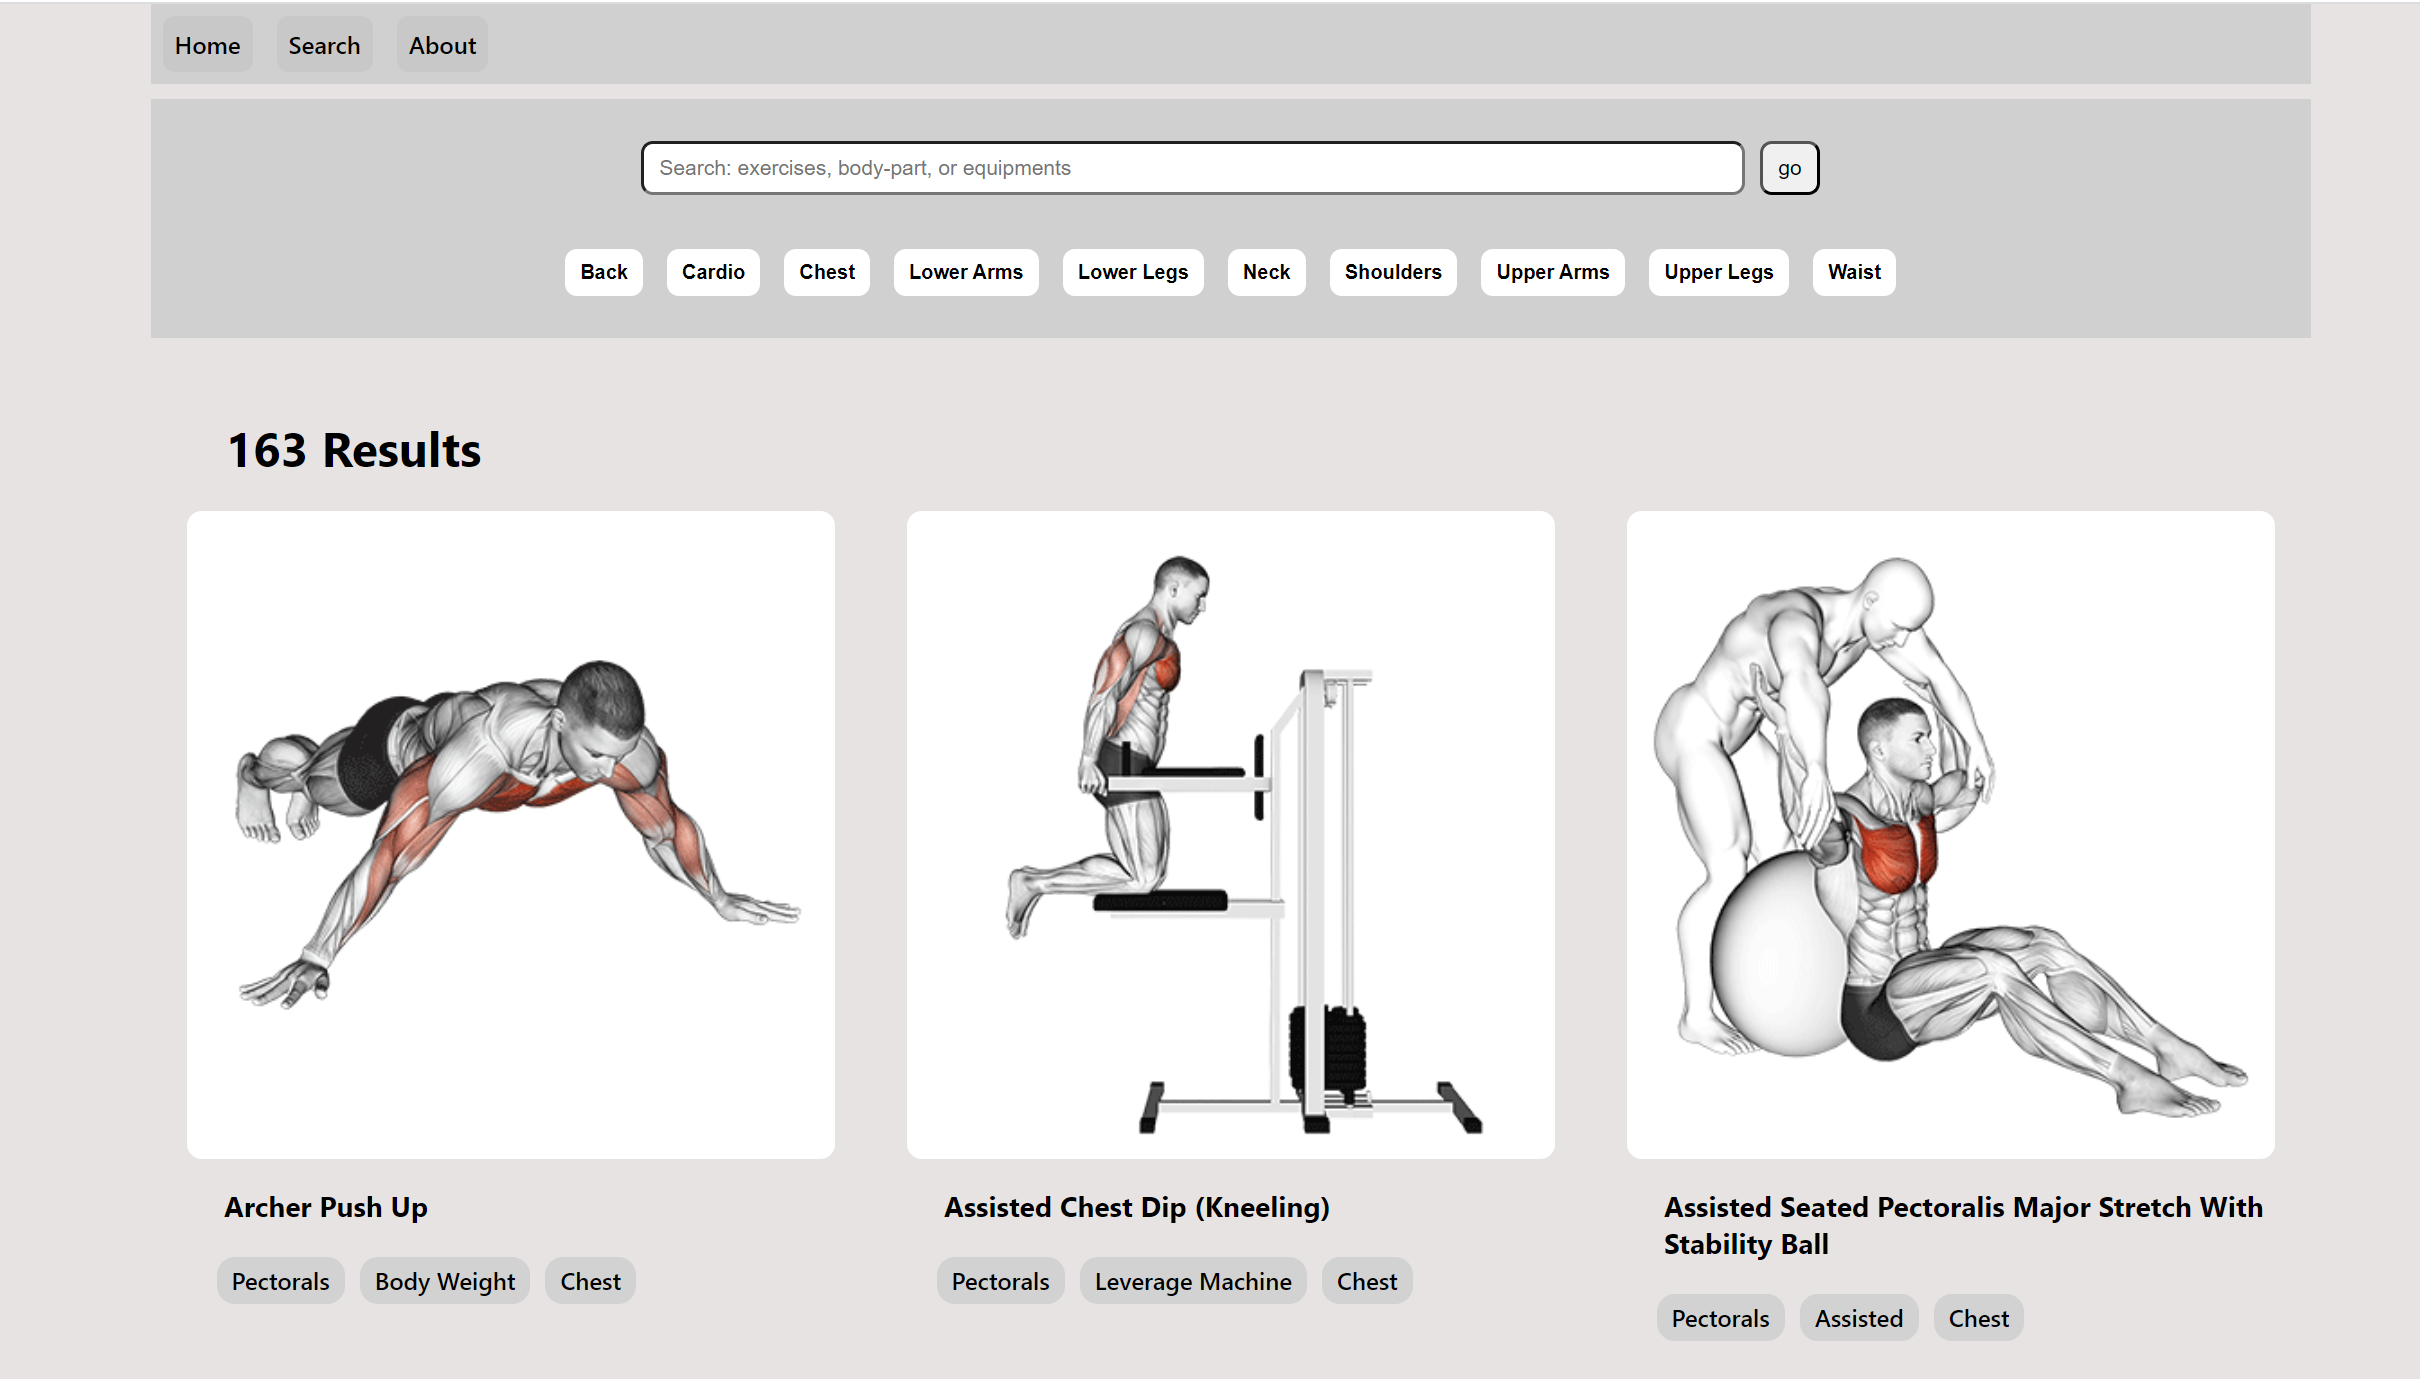
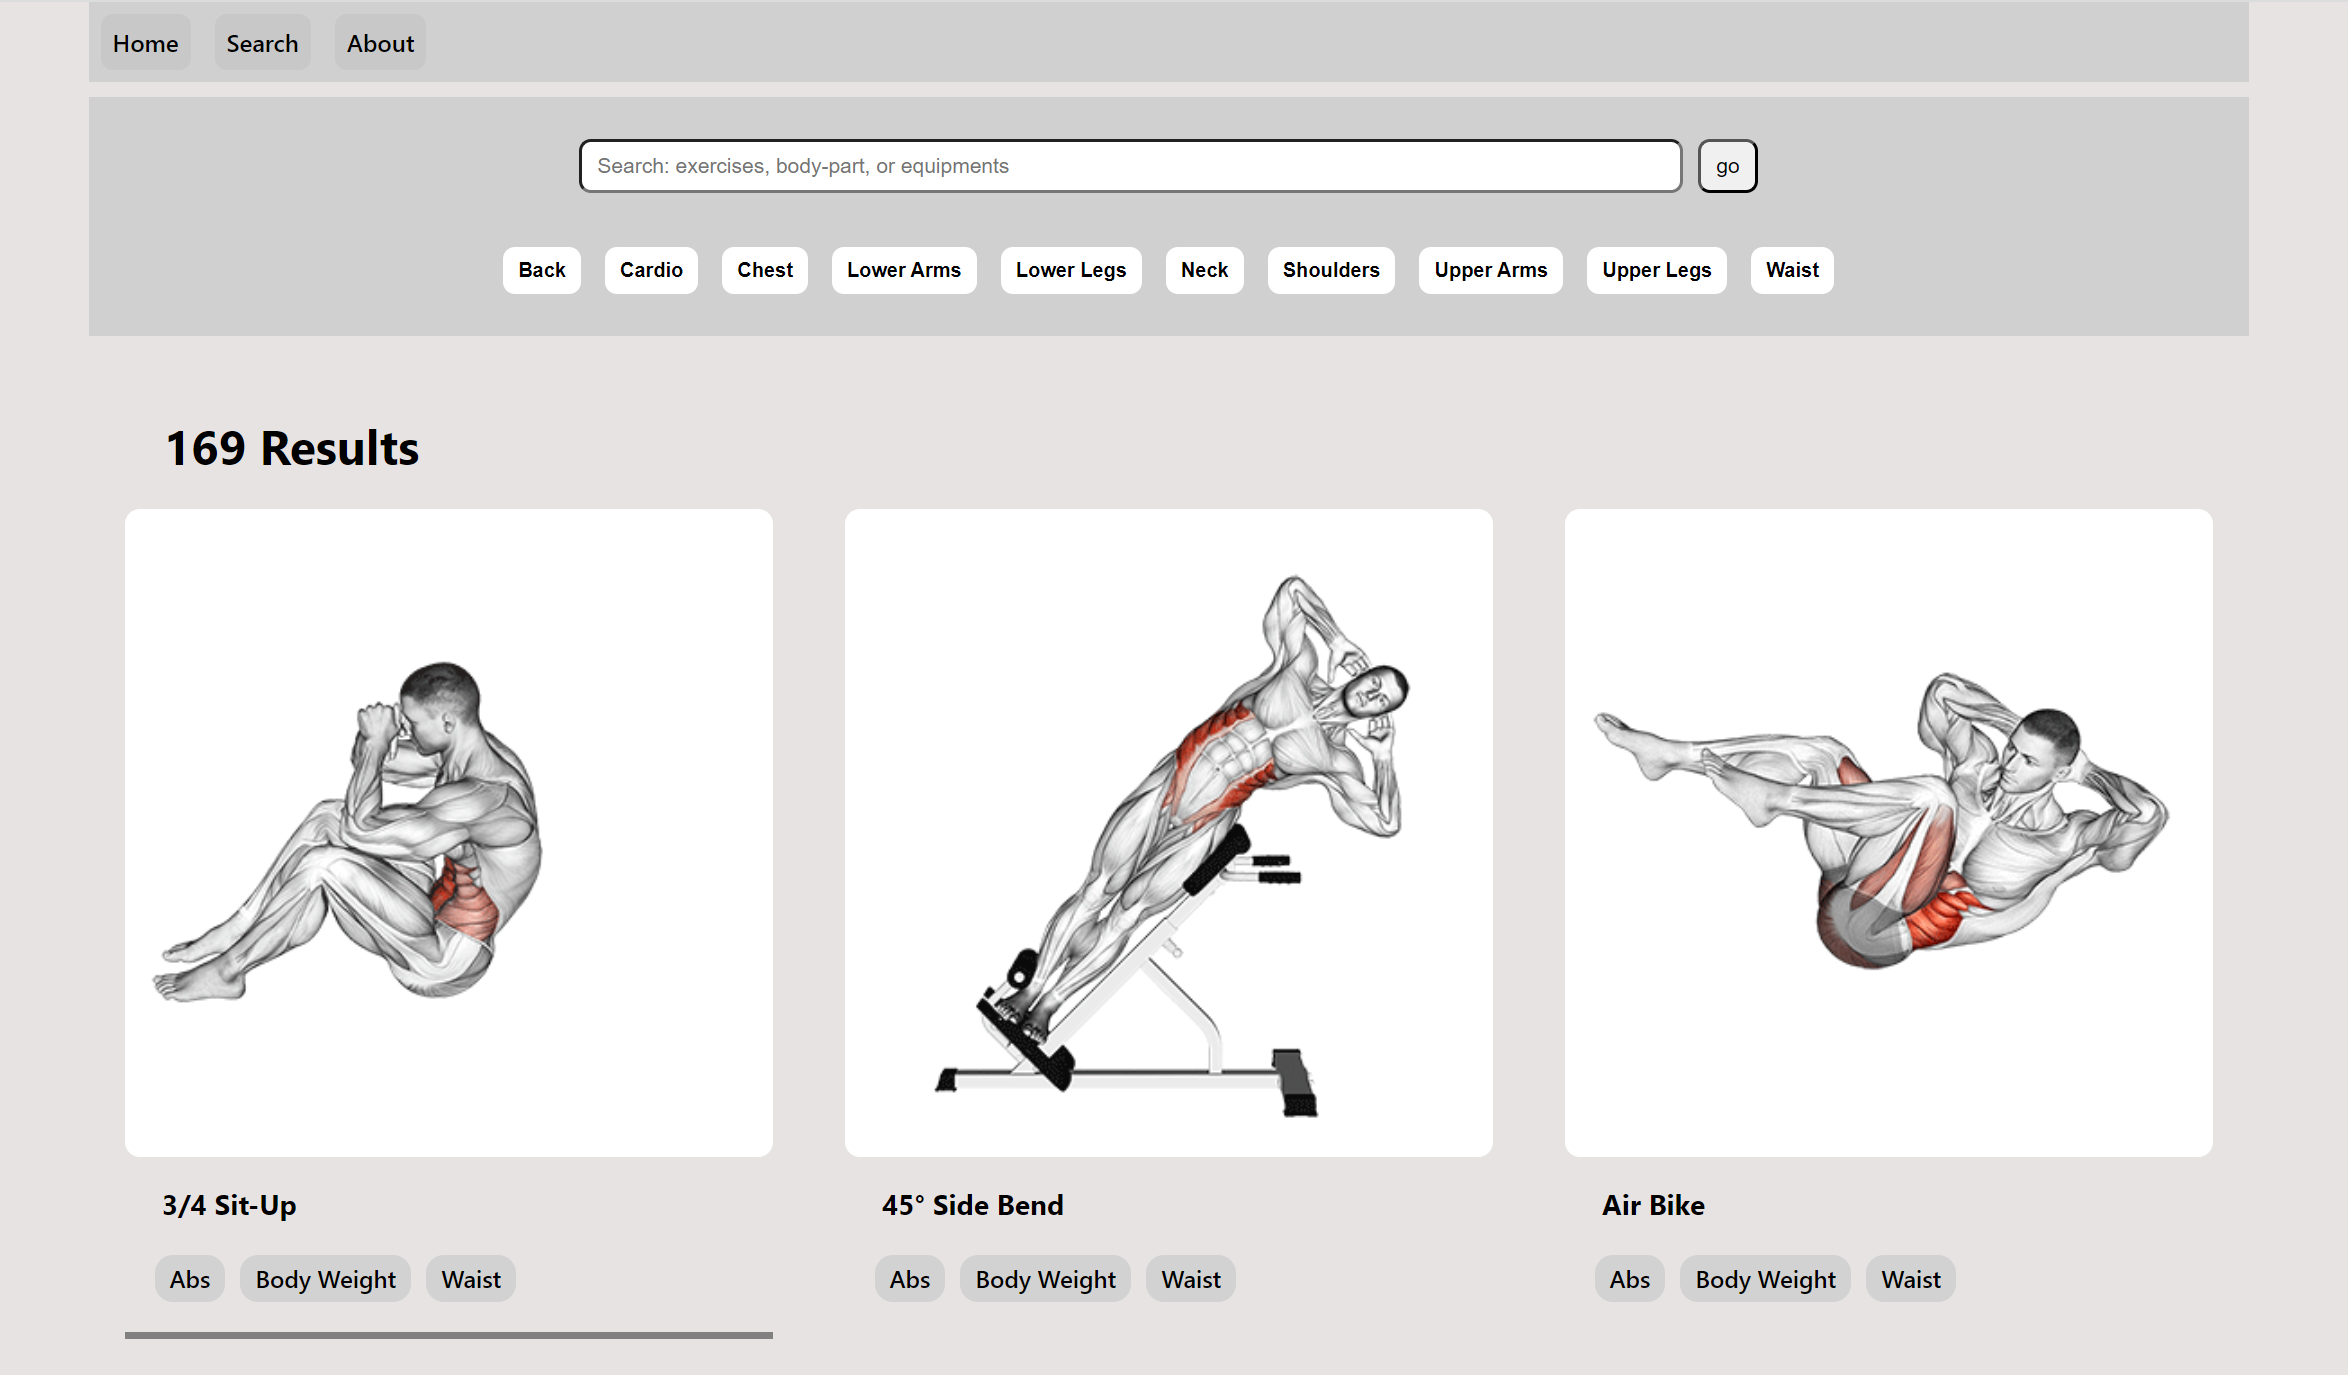
fix: click attributes under the title of a exercise that still stay at currentPage rather than the first page, and component everciseCard has refactored

diff --git a/src/components/result/exerciseCard.js b/src/components/result/exerciseCard.js
@@ -1,29 +1,29 @@
 import React from 'react';
 import { EXERCISEDATA } from "../Data/exerciseData";
 
-function ExerciseCard({ exercise, setExercises }) {
+function ExerciseCard({ exercise, setExercises,setCurrentPage }) {
 
     const exerciseDATA = EXERCISEDATA;
+    
+    const filterExercises = (filterFn) => {
+        const filteredExercises = exerciseDATA.filter(filterFn);
+        
+        setExercises(filteredExercises);
+        setCurrentPage(1);
+        window.scrollTo({ top: 200, behavior: 'smooth' });
+    }
 
     const handleTarget = (item) => {
-        const exercise_target = exerciseDATA.filter((exercise) => exercise.target.toLowerCase().includes(item));
-
-        setExercises(exercise_target);
-        window.scrollTo({ top: 200, behavior: 'smooth' });
+        filterExercises((exercise) => exercise.target.toLowerCase().includes(item))
     };
 
     const handleEquipment = (item) => {
-        const exercise_equipment = exerciseDATA.filter((exercise) => exercise.equipment.toLowerCase().includes(item));
-
-        setExercises(exercise_equipment);
-        window.scrollTo({ top: 200, behavior: 'smooth' });
+        filterExercises((exercise) => exercise.equipment.toLowerCase().includes(item))
+        
     };
 
     const handleBodyPart = (item) => {
-        const exercise_bodyPart = exerciseDATA.filter((exercise) => exercise.bodyPart.toLowerCase().includes(item));
-
-        setExercises(exercise_bodyPart);
-        window.scrollTo({ top: 200, behavior: 'smooth' });
+        filterExercises((exercise) => exercise.bodyPart.toLowerCase().includes(item));
     };
 
 

diff --git a/src/components/result/Result.js b/src/components/result/Result.js
@@ -14,7 +14,6 @@ function Result({ searchedExercises, setExercises }) {
 
   const handlePageChange = (e, value) => {
     setCurrentPage(value);
-
     window.scrollTo({top: 200, behavior: "smooth"})
   }
 
@@ -23,7 +22,7 @@ function Result({ searchedExercises, setExercises }) {
       <h1>{searchedExercises.length} Results</h1>
       <div className='exercisesList'>
         {currentExercises.map((exercise) => (
-            <ExerciseCard key={exercise.id} exercise={exercise} setExercises={setExercises}/>
+            <ExerciseCard key={exercise.id} exercise={exercise} setExercises={setExercises} setCurrentPage={setCurrentPage}/>
           ))
         }
       </div>
@@ -33,14 +32,15 @@ function Result({ searchedExercises, setExercises }) {
               <Pagination 
                 color="standard"
                 shape="rounded"
-                
                 defaultPage={1}
                 count={Math.ceil(searchedExercises.length / exercisesPerPage)}
                 page={currentPage}
                 onChange={handlePageChange}
                 size='large'
-                // showFirstButton
-                // showLastButton
+                showFirstButton
+                showLastButton
+                hidePrevButton
+                hideNextButton
               />
             )
           }
